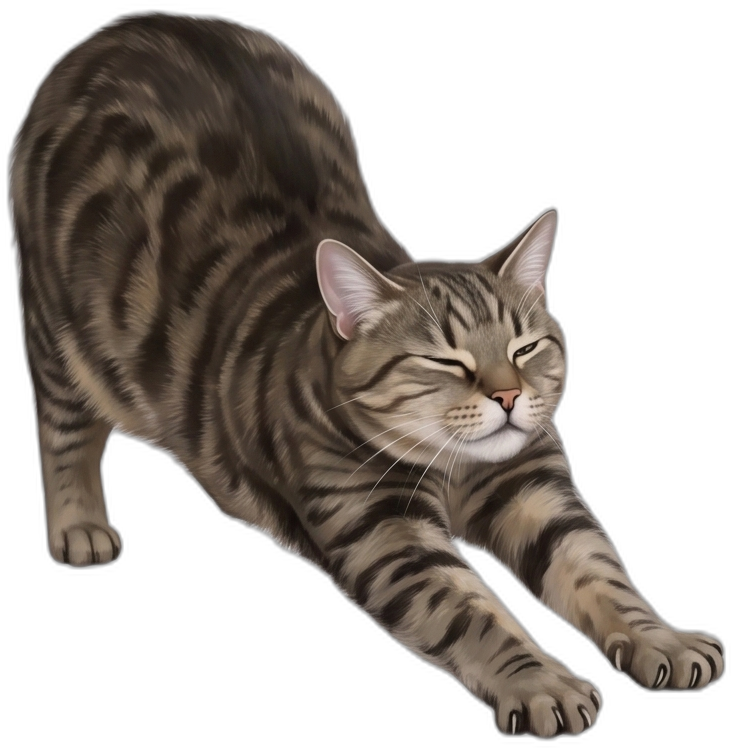
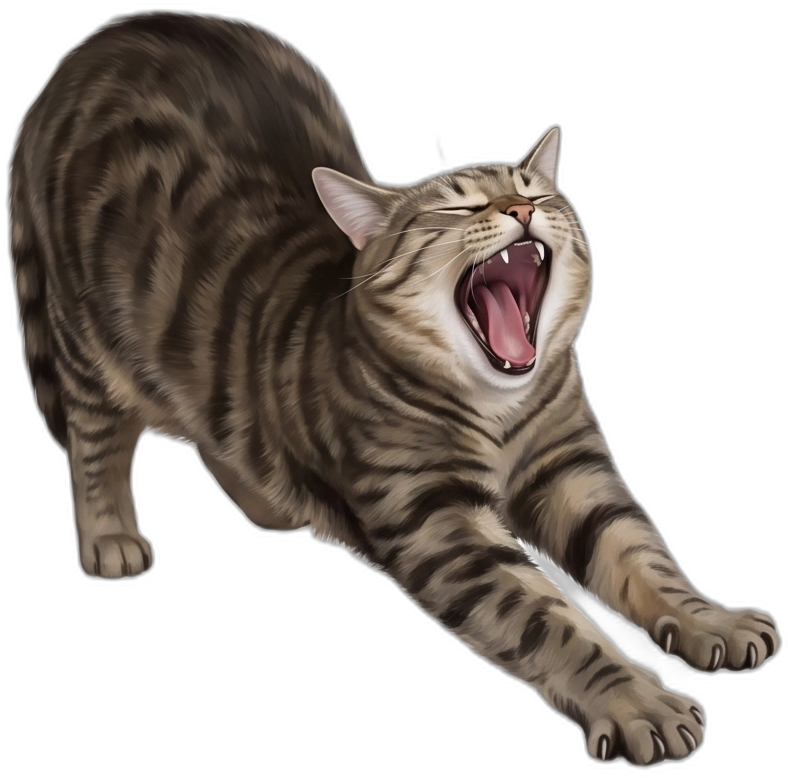
Simplify behavior to walk/stretch and add transition animation
Replace multi-state behavior engine with walk+stretch states. Clicking
the pet triggers a transition sequence (walking-to-stretching frames)
before the stretch loop, then auto-returns to walking.

diff --git a/behaviors.py b/behaviors.py
@@ -1,14 +1,12 @@
-"""Behavior engine for Oreo — walks left and right across the screen."""
+"""Behavior engine for Oreo — walks left and right, stretches on click."""
 
 import random
 from enum import Enum
 
 
 class State(Enum):
-    IDLE = "idle"
     WALK = "walk"
-    SIT = "sit"
-    HAPPY = "happy"
+    STRETCH = "stretch"
 
 
 class FloatingBehavior:
@@ -18,72 +16,40 @@ class FloatingBehavior:
         self.pet_size = pet_size
 
         self.state = State.WALK
-        self.state_timer = 0
-        self.state_duration = self._random_duration()
-
-        # Horizontal movement: 1 = right, -1 = left
         self.direction = random.choice([-1, 1])
         self.speed = random.uniform(1.0, 2.0)
-        self.angle = 0.0 if self.direction > 0 else 3.14159
 
-    def _random_duration(self):
-        durations = {
-            State.IDLE: (40, 100),
-            State.WALK: (80, 200),
-            State.SIT: (60, 150),
-            State.HAPPY: (25, 25),
-        }
-        lo, hi = durations.get(self.state, (50, 100))
-        return random.randint(lo, hi)
+        self.walk_timer = 0
+        self.walk_duration = self._random_walk_duration()
 
-    def transition(self):
-        if self.state == State.HAPPY:
-            self.state = State.WALK
-        elif self.state == State.WALK:
-            r = random.random()
-            if r < 0.4:
-                self.state = State.IDLE
-            elif r < 0.6:
-                self.state = State.SIT
-            else:
-                # Change direction
-                self.direction *= -1
-                self.angle = 0.0 if self.direction > 0 else 3.14159
-                self.speed = random.uniform(1.0, 2.0)
-        elif self.state == State.IDLE or self.state == State.SIT:
-            self.state = State.WALK
-            if random.random() < 0.3:
-                self.direction *= -1
-                self.angle = 0.0 if self.direction > 0 else 3.14159
-            self.speed = random.uniform(1.0, 2.0)
-
-        self.state_timer = 0
-        self.state_duration = self._random_duration()
+    def _random_walk_duration(self):
+        return random.randint(80, 200)
 
     def update(self, current_x, current_y):
         """Returns (dx, dy) for this tick."""
-        self.state_timer += 1
-
-        if self.state_timer >= self.state_duration:
-            self.transition()
-
         if self.state == State.WALK:
+            self.walk_timer += 1
+            if self.walk_timer >= self.walk_duration:
+                self.walk_timer = 0
+                self.walk_duration = self._random_walk_duration()
+                self.direction *= -1
+                self.speed = random.uniform(1.0, 2.0)
+
             dx = self.direction * self.speed
         else:
             dx = 0
 
         dy = 0
 
-        # Bounce off left/right edges
         new_x = current_x + dx
         if new_x < 0 or new_x > self.screen_width - self.pet_size:
             self.direction *= -1
-            self.angle = 0.0 if self.direction > 0 else 3.14159
             dx = -dx
 
         return dx, dy
 
-    def trigger_happy(self):
-        self.state = State.HAPPY
-        self.state_timer = 0
-        self.state_duration = 25
+    def trigger_stretch(self):
+        self.state = State.STRETCH
+
+    def end_stretch(self):
+        self.state = State.WALK

diff --git a/pet_widget.py b/pet_widget.py
@@ -2,9 +2,8 @@
 
 import os
 import sys
-import math
 from PIL import Image
-from PyQt6.QtCore import Qt, QTimer, QPoint, QRectF, QRect
+from PyQt6.QtCore import Qt, QTimer, QPoint, QRectF
 from PyQt6.QtGui import QPixmap, QPainter, QIcon, QAction, QCursor, QColor, QPen, QFont, QImage, QTransform
 from PyQt6.QtWidgets import QWidget, QMenu, QSystemTrayIcon, QApplication
 
@@ -16,13 +15,12 @@ else:
     FRAMES_DIR = os.path.join(os.path.dirname(__file__), "frames")
 
 FRAMES_WALK_DIR = os.path.join(FRAMES_DIR, "walking3")
+FRAMES_TRANSITION_DIR = os.path.join(FRAMES_DIR, "walking-to-stretching")
 FRAMES_STRETCH_DIR = os.path.join(FRAMES_DIR, "stretching")
-WALK_FRAMES_SEQ = [1, 2, 3, 4]
-STRETCH_FRAMES_SEQ = [1, 2, 3, 4]
 
 PET_SIZE = 150
 WALK_ANIM_SPEED = 8
-STRETCH_ANIM_SPEED = 12
+STRETCH_ANIM_SPEED = 4
 
 
 def _pil_to_qpixmap(img):
@@ -51,6 +49,8 @@ class PetWidget(QWidget):
         self.stretch_frame_index = 0
         self.stretch_frame_counter = 0
         self._flipped_cache = {}
+        self.show_heart = False
+        self.heart_timer = 0
 
     def _setup_window(self):
         self.setWindowFlags(
@@ -70,30 +70,39 @@ class PetWidget(QWidget):
         self.move(start_x, start_y)
 
     def _load_frames(self):
-        """Load walking and stretching frames at Retina resolution."""
+        """Load walking, transition, and stretching frames at Retina resolution."""
         dpr = QApplication.primaryScreen().devicePixelRatio()
         load_size = int(PET_SIZE * dpr)
+
         self.walk_frames = []
-        for i in WALK_FRAMES_SEQ:
+        for i in [1, 2, 3, 4]:
             path = os.path.join(FRAMES_WALK_DIR, f"frame_{i}.png")
             img = Image.open(path).convert("RGBA")
             img.thumbnail((load_size, load_size), Image.LANCZOS)
             pixmap = _pil_to_qpixmap(img)
             pixmap.setDevicePixelRatio(dpr)
             self.walk_frames.append(pixmap)
-        self.stretch_frames = []
-        for i in STRETCH_FRAMES_SEQ:
-            path = os.path.join(FRAMES_STRETCH_DIR, f"frame_{i}.png")
+
+        # Stretch sequence: transition frame 2, 3 then stretch frame 1, 2
+        padded_size = int(load_size * 0.85)
+        self.stretch_seq = []
+        for i in [2, 3]:
+            path = os.path.join(FRAMES_TRANSITION_DIR, f"frame_{i}.png")
             img = Image.open(path).convert("RGBA")
-            img.thumbnail((load_size, load_size), Image.LANCZOS)
+            img.thumbnail((padded_size, padded_size), Image.LANCZOS)
             pixmap = _pil_to_qpixmap(img)
             pixmap.setDevicePixelRatio(dpr)
-            self.stretch_frames.append(pixmap)
+            self.stretch_seq.append(pixmap)
+        for i in [1, 2, 2, 2]:
+            path = os.path.join(FRAMES_STRETCH_DIR, f"frame_{i}.png")
+            img = Image.open(path).convert("RGBA")
+            img.thumbnail((padded_size, padded_size), Image.LANCZOS)
+            pixmap = _pil_to_qpixmap(img)
+            pixmap.setDevicePixelRatio(dpr)
+            self.stretch_seq.append(pixmap)
 
     def _setup_behavior(self):
         self.behavior = FloatingBehavior(self.screen_width, self.screen_height, PET_SIZE)
-        self.show_heart = False
-        self.heart_timer = 0
 
     def _setup_animation(self):
         self.timer = QTimer(self)
@@ -101,7 +110,7 @@ class PetWidget(QWidget):
         self.timer.start(50)
 
     def _setup_tray(self):
-        icon = QIcon(self._frame_as_pixmap(0))
+        icon = QIcon(self.walk_frames[0])
 
         self.tray = QSystemTrayIcon(icon, self)
         self.tray.setToolTip("Oreo")
@@ -118,9 +127,6 @@ class PetWidget(QWidget):
         self.tray.setContextMenu(tray_menu)
         self.tray.activated.connect(self._tray_activated)
         self.tray.show()
-
-    def _frame_as_pixmap(self, index):
-        return self.walk_frames[index % len(self.walk_frames)]
 
     def _show_pet(self):
         self.show()
@@ -143,7 +149,6 @@ class PetWidget(QWidget):
 
         self.move(int(self.float_x), int(self.float_y))
 
-        # Animate based on state
         if self.behavior.state == State.WALK:
             self.walk_frame_counter += 1
             if self.walk_frame_counter >= WALK_ANIM_SPEED:
@@ -153,7 +158,10 @@ class PetWidget(QWidget):
             self.stretch_frame_counter += 1
             if self.stretch_frame_counter >= STRETCH_ANIM_SPEED:
                 self.stretch_frame_counter = 0
-                self.stretch_frame_index = (self.stretch_frame_index + 1) % len(self.stretch_frames)
+                self.stretch_frame_index += 1
+                if self.stretch_frame_index >= len(self.stretch_seq):
+                    self.stretch_frame_index = 0
+                    self.behavior.end_stretch()
 
         if self.show_heart:
             self.heart_timer -= 1
@@ -167,7 +175,7 @@ class PetWidget(QWidget):
             pixmap = self.walk_frames[self.walk_frame_index]
             cache_key = ("walk", self.walk_frame_index, flip)
         else:
-            pixmap = self.stretch_frames[self.stretch_frame_index]
+            pixmap = self.stretch_seq[self.stretch_frame_index]
             cache_key = ("stretch", self.stretch_frame_index, flip)
 
         if flip:
@@ -223,16 +231,21 @@ class PetWidget(QWidget):
             self.setCursor(QCursor(Qt.CursorShape.ArrowCursor))
             release_pos = event.globalPosition().toPoint()
             if self.click_pos and (release_pos - self.click_pos).manhattanLength() < 5:
-                self.behavior.trigger_happy()
-                self.show_heart = True
-                self.heart_timer = 25
+                self._trigger_stretch()
             self.dragging = False
+
+    def _trigger_stretch(self):
+        self.behavior.trigger_stretch()
+        self.stretch_frame_index = 0
+        self.stretch_frame_counter = 0
+        self.show_heart = True
+        self.heart_timer = 25
 
     def _show_context_menu(self, pos):
         menu = QMenu(self)
 
         pet_action = QAction("Pet Oreo", self)
-        pet_action.triggered.connect(self._pet_oreo)
+        pet_action.triggered.connect(self._trigger_stretch)
         menu.addAction(pet_action)
 
         menu.addSeparator()
@@ -242,8 +255,3 @@ class PetWidget(QWidget):
         menu.addAction(quit_action)
 
         menu.exec(pos)
-
-    def _pet_oreo(self):
-        self.behavior.trigger_happy()
-        self.show_heart = True
-        self.heart_timer = 25